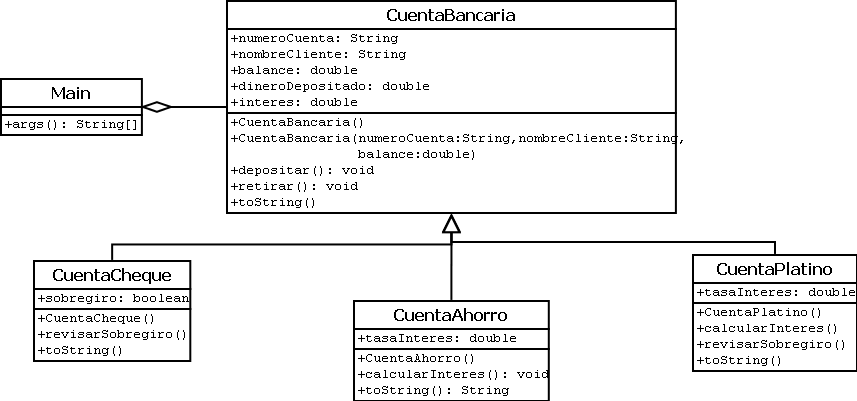
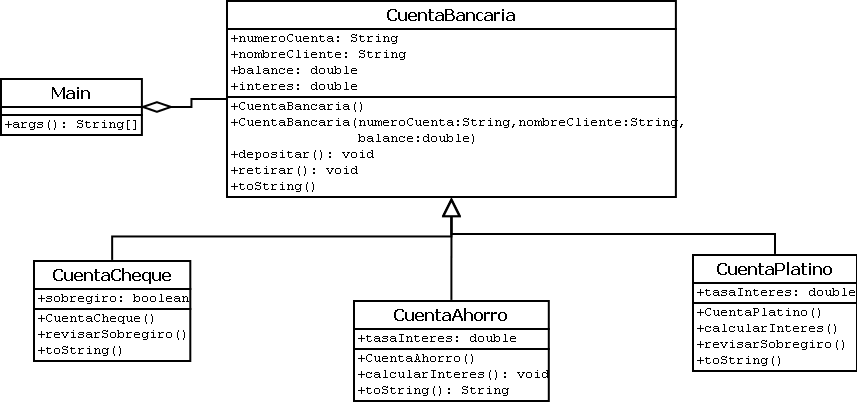
Taller

Changed region(s): [[0.0, 0.0898, 1.0, 0.9277], [0.4247, 0.7481, 0.6371, 1.0], [0.6068, 0.9277, 0.6371, 0.9576]]

diff --git a/Solucion_Codigo/Proyecto_Taller7/src/Problema6_CuentaBanco.java b/Solucion_Codigo/Proyecto_Taller7/src/Problema6_CuentaBanco.java
@@ -143,7 +143,6 @@ class CuentaBancaria {
     public String numeroCuenta;
     public String nombreCliente;
     public double balance;
-    public double dinero;
     public double interes;
 
     public CuentaBancaria() {
